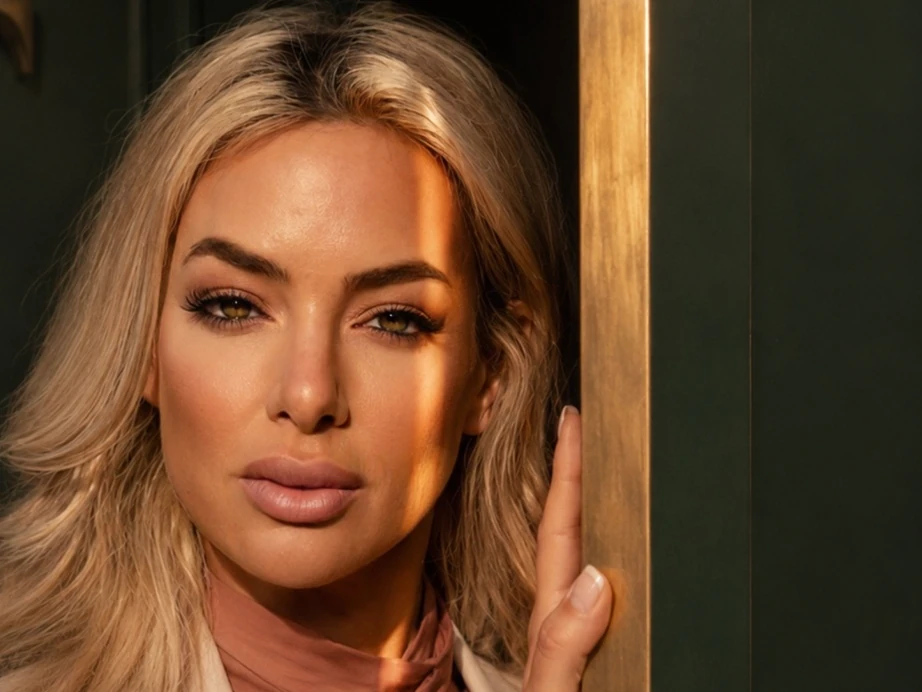
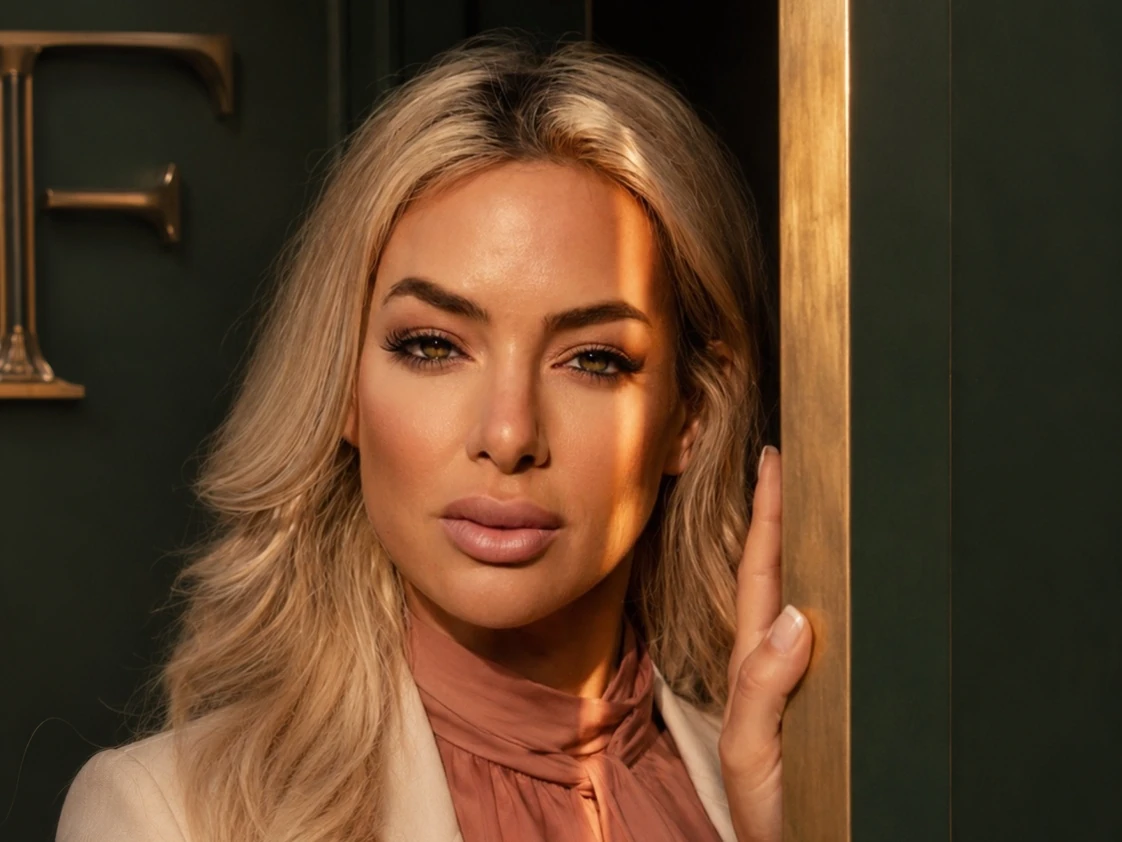
One FOUND HER tab; the F returns to the mobile hero

diff --git a/src/lib/brand.ts b/src/lib/brand.ts
@@ -77,7 +77,9 @@ export const PRIMARY_NAV = [
   { href: "/our-story", label: "Our Story" },
   { href: "/found-her", label: "Found Her" },
   { href: "/young-founders-room", label: "Young Founders\u2019 Room" },
-  { href: "/share-your-story", label: "Share Your Story" },
+  /* Share Your Story is not a tab: the page folded into Found Her (see the
+     redirect in next.config.ts), so the nav says FOUND HER once and means
+     both. The footer keeps a deep link to the invitation itself. */
 ];
 
 export const FOOTER_NAV = [
@@ -96,7 +98,7 @@ export const FOOTER_NAV = [
     links: [
       { href: "/found-her", label: "Found Her" },
       { href: "/our-story", label: "Our Story" },
-      { href: "/share-your-story", label: "Share Your Story" },
+      { href: "/found-her#share", label: "Share Your Story" },
     ],
   },
   {

diff --git a/AGENTS.md b/AGENTS.md
@@ -1,0 +1,53 @@
+# Working in this repository — rules for every agent
+
+This repo is edited by several AI agents (Claude/Cowork, Codex, Gemini, Warp)
+and by Shelby herself. None of you can see the others. This file and
+WORKLOG.md are how you coordinate. **Read WORKLOG.md before changing
+anything. Append to it before you finish.** That is not optional; skipping it
+is how this repo got a broken build, an overwritten page, and two half-
+finished hero swaps in one week.
+
+## The three rules that prevent disasters
+
+1. **Git is the only source of truth.** Before editing any file, start from
+   `git show HEAD:<file>` or a fresh checkout — never from a copy you made
+   earlier, however recent it feels. A stale base overwrote a newer page.tsx
+   here on 14 Aug and broke the build.
+2. **Finish or revert.** Never leave the working tree half-switched (assets
+   added but code not updated, or the reverse). If you cannot complete a
+   change, `git checkout -- <files>` and write down what you intended in
+   WORKLOG.md instead.
+3. **Log it.** Append one entry to WORKLOG.md: date, which agent you are,
+   what you changed, what you deliberately did NOT change, anything unpushed.
+
+## What governs this codebase
+
+- **The brand board wins.** The FOUNDER Master Brand Board v2.14 is the
+  source of truth for all visual and brand decisions; the searchable text
+  lives in the Claude project (`claude/founder-master-brand-board.md`) and a
+  code-facing digest in `docs/BRAND_BOARD.md`. Read it before touching
+  colour, type, logos, campaign language, or photography.
+- **Protected, verbatim, never edited:** `OPEN THE DOOR. / THE ROOM IS
+  YOURS.` (always two lines) · "The room is yours." · the FOUNDER/BEAUTY
+  wordmark construction (Cormorant Garamond 400 over Jost 400 at .48em,
+  38–42% width) · the F-key monogram geometry (never redrawn, never fused to
+  the wordmark).
+- **Never invent:** ingredients, claims, reviews, clinical results,
+  certifications, prices, launch dates, or charitable terms. The three
+  v2.14 pre-sale products (OPENING LINE, HOLD THE ROOM, SIGN HERE) do NOT
+  appear on the site — production is not locked.
+- **British spelling** throughout (moisturiser, labelled). It is not a typo.
+- **No customer PII in this repo.** Ever. The Etsy export lives outside git.
+- **20% of net profits** (Young Founders' Room): four occurrences, same
+  wording, never paraphrased, no legal gloss added.
+
+## Practical notes
+
+- Build: `npm run build`. It must pass before any commit. Verify changes at
+  390px and 1440px — screenshots, not assumptions.
+- Commit with explicit file paths, never `git add -A`.
+- Hero images: `hero-open-door.webp` (desktop composite) and
+  `hero-open-door-m.webp` (mobile, cropped past the soft-focus F) are the
+  approved pair. `_candidates/` holds unadopted proposals — do not wire
+  them in without Shelby's approval.
+- The desk app (~/FOUNDER-Desk) has its own AGENTS.md. Same rules.

diff --git a/WORKLOG.md b/WORKLOG.md
@@ -1,0 +1,32 @@
+# Worklog — append, never rewrite
+
+Every agent session that touches this repo adds an entry at the top:
+date · agent · what changed · what was left alone · anything unpushed.
+
+---
+
+## 2026-08-14 · Claude (Cowork)
+- Seeded this worklog and AGENTS.md after a week of uncoordinated edits.
+- State at time of writing: HEAD = 739b433 (Open the Door hero, desktop).
+  Pending on disk: reconciled page.tsx (mobile hero fix), new
+  hero-open-door-m.webp (crops past the soft-focus F), brand.ts reverted,
+  hero-open-door-2*.webp parked in _candidates/ — all landing via Shelby
+  running "Reconcile Hero.command".
+- Known history worth knowing: 14 Aug, an unidentified agent half-switched
+  HERO to -2 files (brand.ts edited, page.tsx not) while the tree held a
+  stale page.tsx importing the deleted `notes` export — build was broken
+  until reconciled. 12 Aug, a different agent rewrote the desk app's Etsy
+  stub into a full OAuth integration (good code, reviewed) without any
+  record here. Neither event was discoverable except by diffing.
+- Deploys: Vercel auto-deploy from main is healthy (~60s push to live).
+- Do NOT touch: protected campaign language, the wordmark construction,
+  charitable wording, anything in AGENTS.md's "never invent" list.
+
+## Earlier (reconstructed, incomplete)
+- 12–13 Aug · unknown agent(s): Etsy OAuth in ~/FOUNDER-Desk (etsy.rs 34→514
+  lines, new Etsy tab, secrets slots); founder-desk app registered on
+  Shelby's Etsy developer account; "Fold Share Your Story into Found Her"
+  (ff1ebb2); "Remove Meanwhile, from us" (cdcf381).
+- 11–12 Aug · Claude (Cowork): brand board v2.14 conformance (Cormorant
+  wordmark, colourways, nav lockup), Young Founders' Room, concierge prompt,
+  FOUNDER Desk app v0.1.

diff --git a/CLAUDE.md b/CLAUDE.md
@@ -1,0 +1,3 @@
+Read AGENTS.md before doing anything in this repository, and append to
+WORKLOG.md before you finish. Multiple agents work here; those two files are
+the only coordination that exists.
